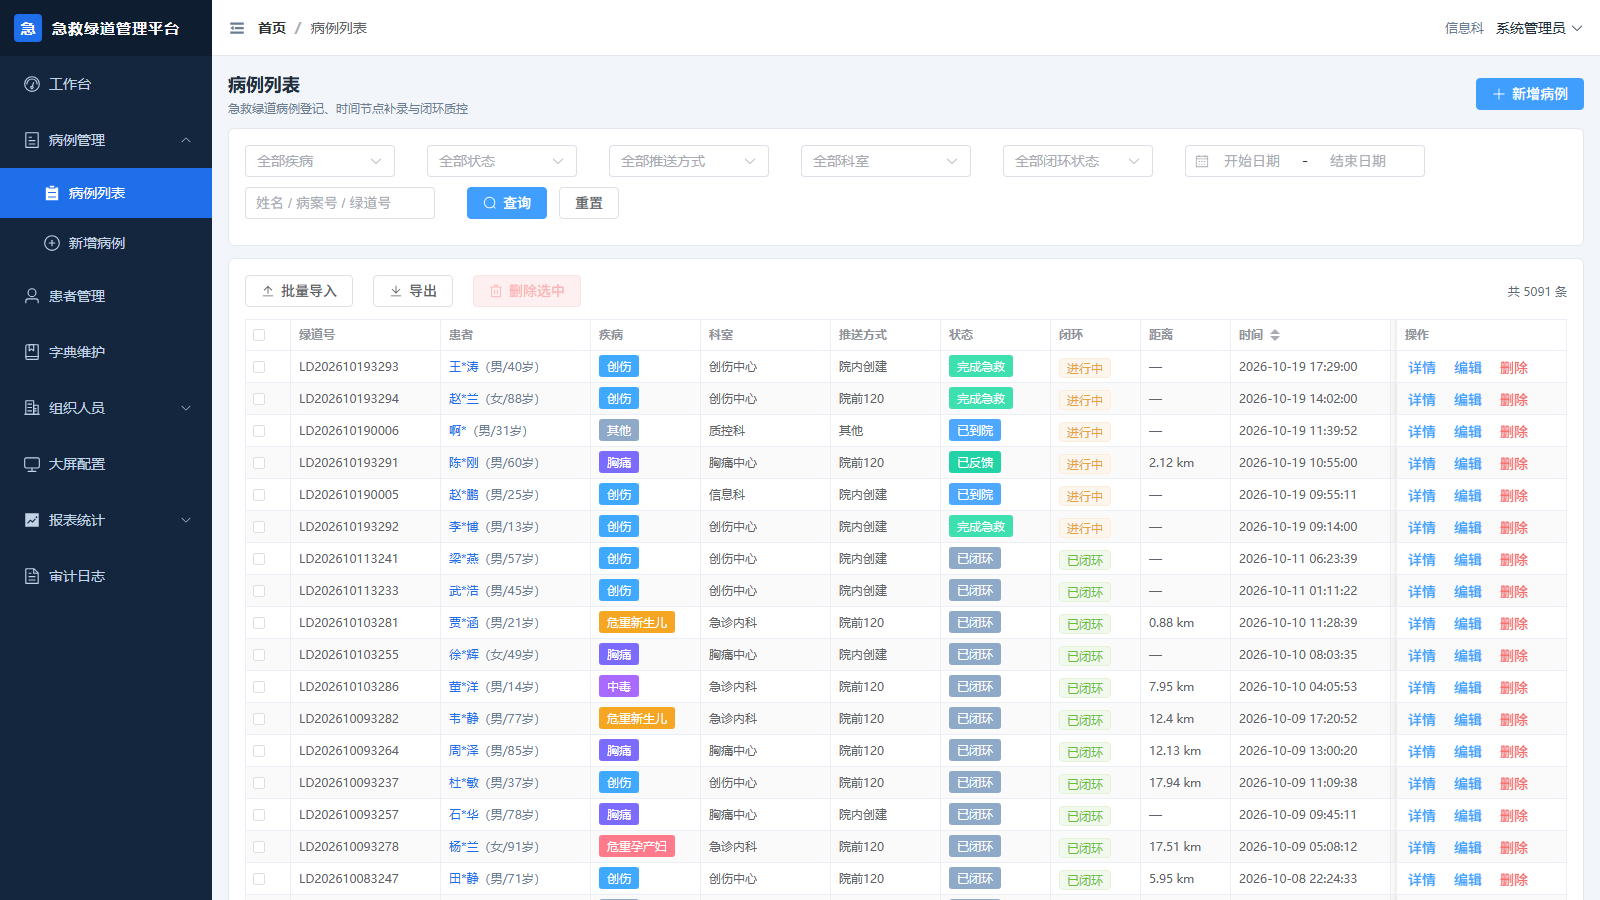
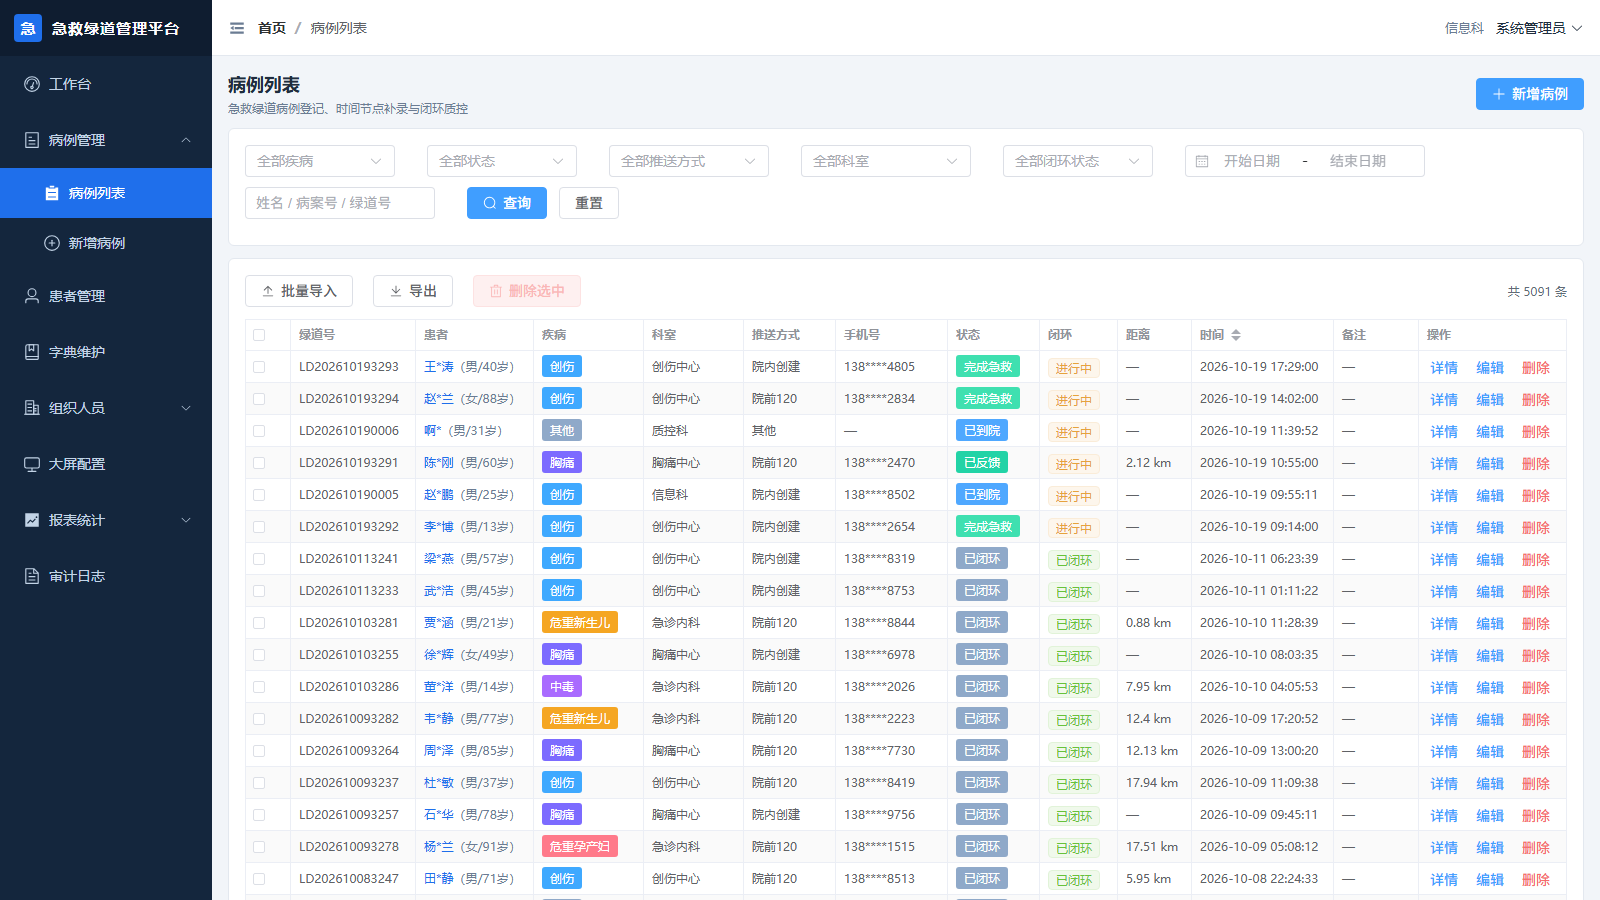
feat(case): 病例列表在推送方式后增加手机号列，并收窄列宽
- 新增「手机号」列（脱敏值），位置在「推送方式」之后
- CaseListItem 增加 phoneMasked 字段（SELECT_CASE 本来就在查 p.phone_masked，
  只是没进列表类型；server 与 worker 的映射各补一行）
- 列变多后表格超宽，导致「时间」被右侧固定操作列压住只剩年份、备注被挤出视口。
  重新分配列宽（合计 1322px），现在 13 列一屏放得下，且「危重孕产妇」这类
  5 字疾病名与「12.13 km」都不再换行

验证：verify-case 新增两条断言（列表带脱敏手机号、手机号必含 *），25/25 通过；
verify-patient 30/30、verify-api 34/34、verify-admin 18/18、verify-screen 7/7 均通过。

diff --git a/apps/admin-web/src/views/case/list.vue b/apps/admin-web/src/views/case/list.vue
@@ -421,8 +421,8 @@ onMounted(() => {
         @selection-change="handleSelectionChange"
       >
         <el-table-column type="selection" width="46" />
-        <el-table-column prop="caseNo" label="绿道号" width="150" />
-        <el-table-column label="患者" min-width="150">
+        <el-table-column prop="caseNo" label="绿道号" width="125" />
+        <el-table-column label="患者" min-width="118">
           <template #default="{ row }">
             <router-link :to="`/cases/${row.id}`">{{ row.patientName }}</router-link>
             <span class="text-sub">（{{ row.genderName }}<span v-if="row.age !== null">/{{ row.age }}岁</span>）</span>
@@ -433,33 +433,36 @@ onMounted(() => {
             <ColorTag :color="row.diseaseColor" :text="row.diseaseName" />
           </template>
         </el-table-column>
-        <el-table-column prop="deptName" label="科室" width="130">
+        <el-table-column prop="deptName" label="科室" width="100">
           <template #default="{ row }">{{ row.deptName ?? '—' }}</template>
         </el-table-column>
-        <el-table-column prop="sourceTypeName" label="推送方式" width="110" />
-        <el-table-column label="状态" width="110">
+        <el-table-column prop="sourceTypeName" label="推送方式" width="92" />
+        <el-table-column label="手机号" width="112">
+          <template #default="{ row }">{{ row.phoneMasked ?? '—' }}</template>
+        </el-table-column>
+        <el-table-column label="状态" width="92">
           <template #default="{ row }">
             <ColorTag :color="row.statusColor" :text="row.statusName" />
           </template>
         </el-table-column>
-        <el-table-column label="闭环" width="90">
+        <el-table-column label="闭环" width="78">
           <template #default="{ row }">
             <el-tag v-if="row.isClosed" type="success" size="small">已闭环</el-tag>
             <el-tag v-else type="warning" size="small">进行中</el-tag>
           </template>
         </el-table-column>
-        <el-table-column label="距离" width="90">
+        <el-table-column label="距离" width="74">
           <template #default="{ row }">
             {{ row.distanceKm === null ? '—' : `${row.distanceKm} km` }}
           </template>
         </el-table-column>
-        <el-table-column prop="createdAt" label="时间" width="160" sortable="custom">
+        <el-table-column prop="createdAt" label="时间" width="142" sortable="custom">
           <template #default="{ row }">{{ formatDate(row.createdAt) }}</template>
         </el-table-column>
-        <el-table-column prop="remark" label="备注" min-width="120" show-overflow-tooltip>
+        <el-table-column prop="remark" label="备注" min-width="85" show-overflow-tooltip>
           <template #default="{ row }">{{ row.remark ?? '—' }}</template>
         </el-table-column>
-        <el-table-column label="操作" width="170" fixed="right">
+        <el-table-column label="操作" width="148" fixed="right">
           <template #default="{ row }">
             <el-button link type="primary" @click="$router.push(`/cases/${row.id}`)">详情</el-button>
             <el-button

diff --git a/apps/worker/src/services.ts b/apps/worker/src/services.ts
@@ -109,6 +109,7 @@ export async function toCaseListItem(dicts: Dicts, row: CaseRow): Promise<CaseLi
     patientName: row.patientName,
     genderName: genderLabel(row.gender),
     age: calcAge(row.birthDate),
+    phoneMasked: row.phoneMasked,
     diseaseCode: row.diseaseCode as CaseListItem['diseaseCode'],
     diseaseName: disease?.name ?? row.diseaseCode,
     diseaseColor: disease?.color ?? '#4FA8FF',

diff --git a/apps/server/src/modules/case/case.service.ts b/apps/server/src/modules/case/case.service.ts
@@ -493,6 +493,7 @@ export class CaseService {
       patientName: row.patientName,
       genderName: genderLabel(row.gender),
       age: calcAge(row.birthDate),
+      phoneMasked: row.phoneMasked,
       diseaseCode: row.diseaseCode as never,
       diseaseName: disease?.name ?? row.diseaseCode,
       diseaseColor: disease?.color ?? '#4FA8FF',

diff --git a/packages/shared/src/types.ts b/packages/shared/src/types.ts
@@ -278,6 +278,8 @@ export interface CaseListItem {
   patientName: string
   genderName: string
   age: number | null
+  /** 患者手机号（脱敏） */
+  phoneMasked: string | null
   diseaseCode: DiseaseCode
   diseaseName: string
   diseaseColor: string
